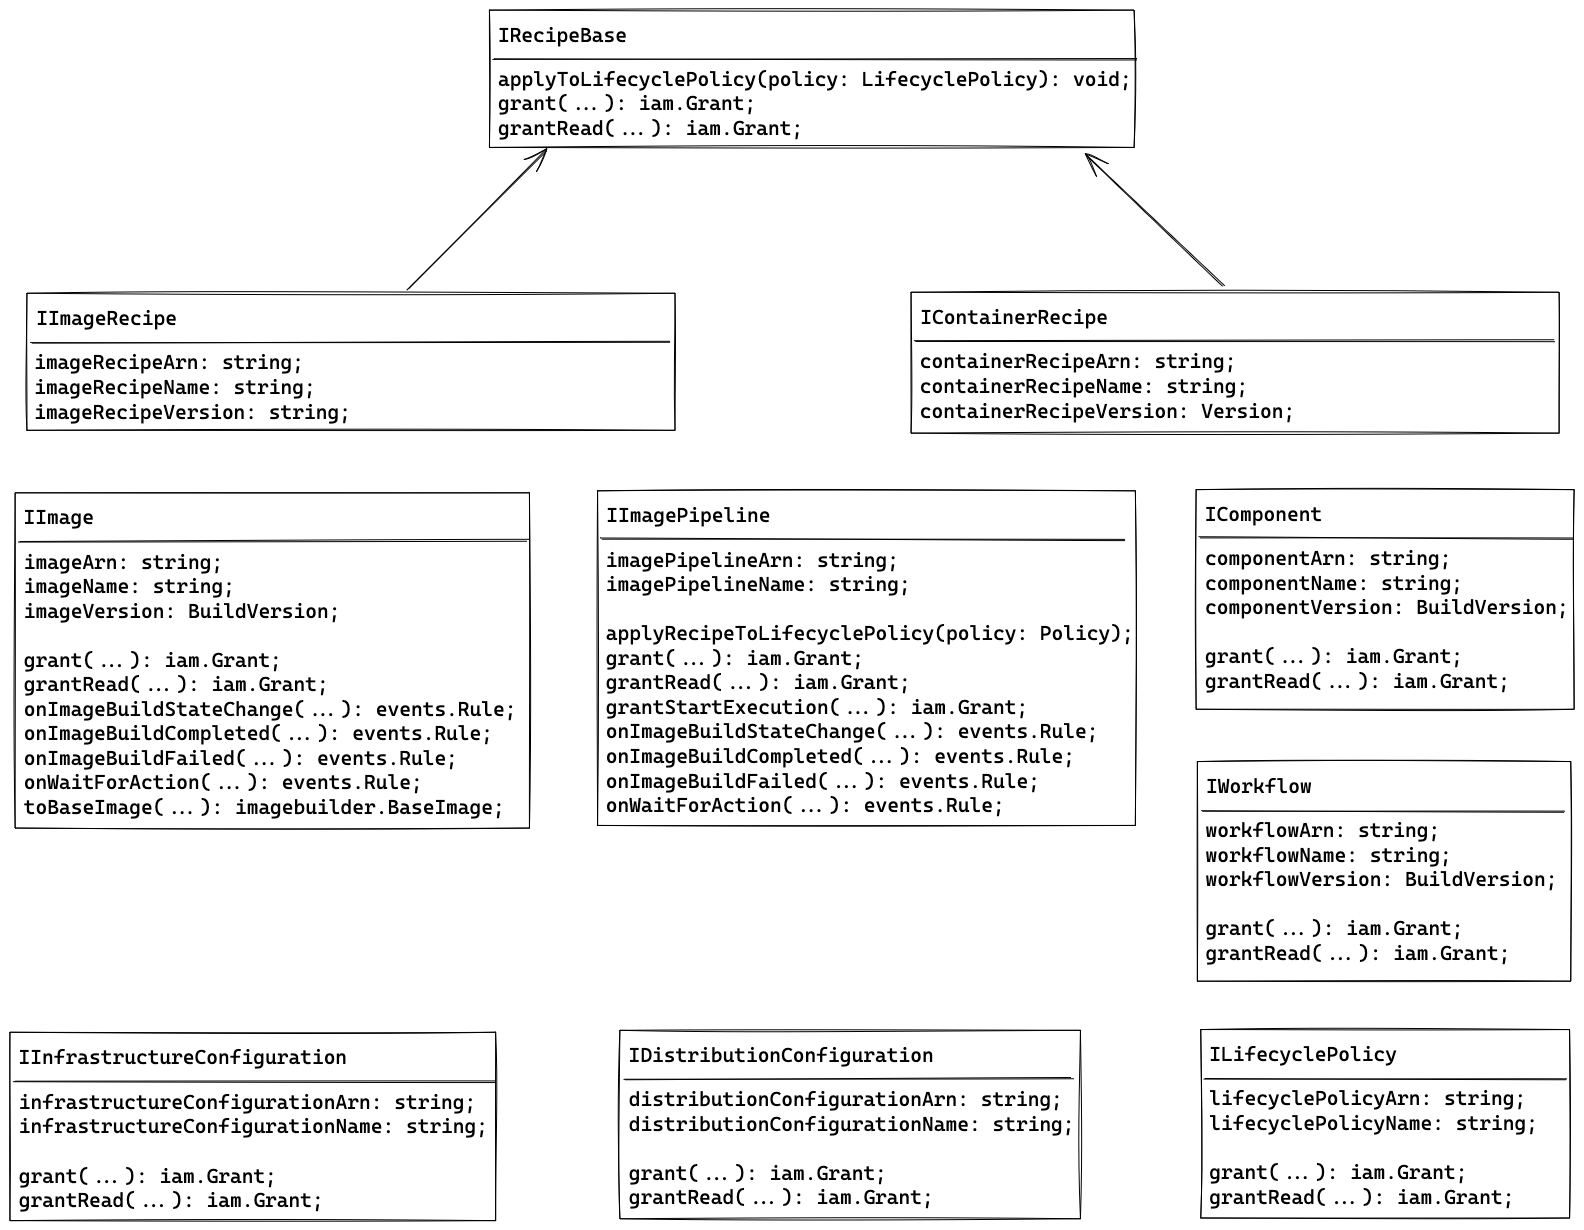
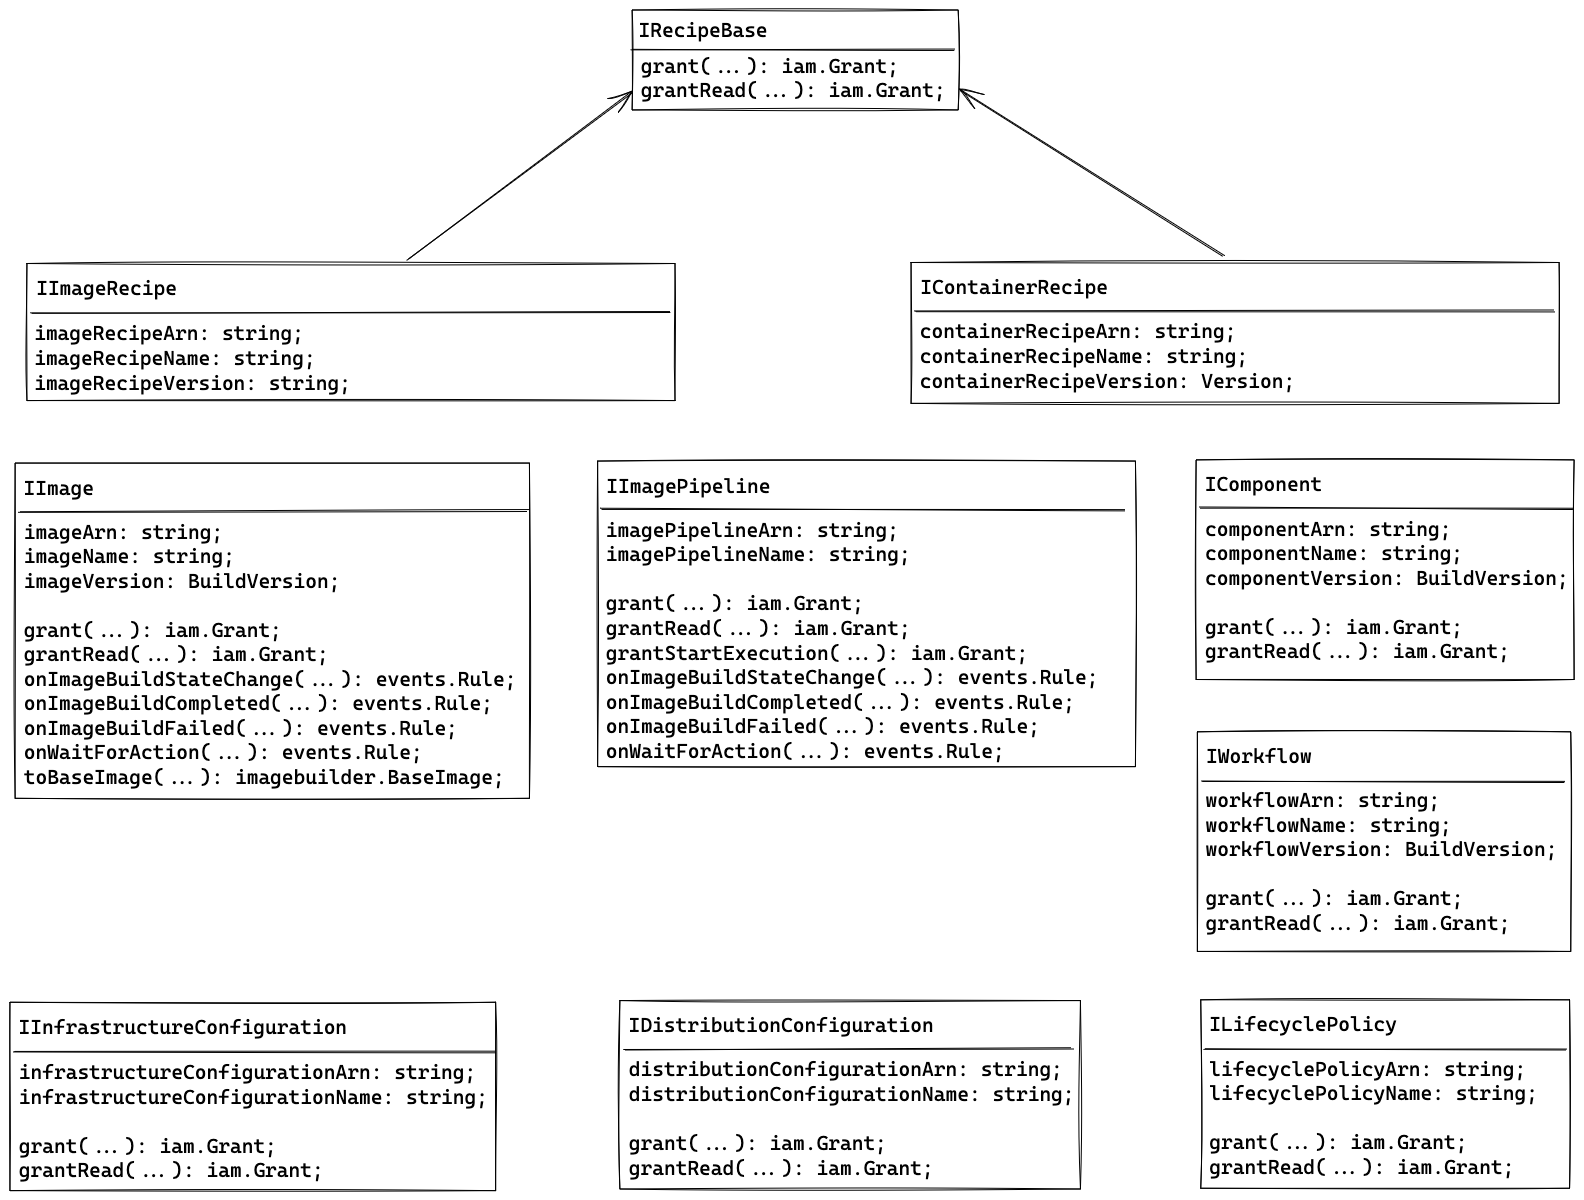
Addressed review comments on lifecycle policies

diff --git a/text/0789-imagebuilder-l2.md b/text/0789-imagebuilder-l2.md
@@ -136,7 +136,7 @@ const imagePipeline = new imagebuilder.ImagePipeline(stack, 'ImagePipeline', {
   }),
   recipe: imagebuilder.ImageRecipe.fromImageRecipeAttributes(stack, 'ImageRecipe', {
     name: 'test-image-recipe',
-    version: imagebuilder.Version.fromVersionAttributes({ major: '1', minor: '0', patch: '0' }),
+    version: new imagebuilder.Version({ major: '1', minor: '0', patch: '0' }),
   }),
   infrastructureConfiguration: imagebuilder.InfrastructureConfiguration.fromInfrastructureConfigurationName(
     stack,
@@ -160,7 +160,7 @@ const imagePipeline = new imagebuilder.ImagePipeline(stack, 'ImagePipeline', {
       }),
     },
     {
-      workflow: imagebuilder.AwsManagedWorkflow.fromWorkflowName(
+      workflow: imagebuilder.AwsManagedWorkflow.fromAwsManagedWorkflowName(
         stack,
         'TestWorkflowAcrossInstanceTypes',
         'test-image-with-instance-type',
@@ -209,7 +209,7 @@ const image = new imagebuilder.Image(stack, 'Image', {
   executionRole: iam.Role.fromRoleName(stack, 'ImageBuilderRole', 'ImageBuilderExecutionRole'),
   recipe: imagebuilder.ImageRecipe.fromImageRecipeAttributes(stack, 'ImageRecipe', {
     name: 'test-image-recipe',
-    version: imagebuilder.Version.fromVersionAttributes({ major: '1', minor: '0', patch: '0' }),
+    version: new imagebuilder.Version({ major: '1', minor: '0', patch: '0' }),
   }),
   infrastructureConfiguration: imagebuilder.InfrastructureConfiguration.fromInfrastructureConfigurationName(
     stack,
@@ -233,7 +233,7 @@ const image = new imagebuilder.Image(stack, 'Image', {
       }),
     },
     {
-      workflow: imagebuilder.AwsManagedWorkflow.fromWorkflowName(
+      workflow: imagebuilder.AwsManagedWorkflow.fromAwsManagedWorkflowName(
         stack,
         'TestWorkflowAcrossInstanceTypes',
         'test-image-with-instance-type',
@@ -389,7 +389,13 @@ const containerRecipe = new imagebuilder.ContainerRecipe(stack, 'ContainerRecipe
   ),
   // Use an AWS-managed component, shared component, and a self-owned component with parameters
   components: [
-    { component: imagebuilder.AwsManagedComponent.fromComponentName(stack, 'update-linux-component', 'update-linux') },
+    {
+      component: imagebuilder.AwsManagedComponent.fromAwsManagedComponentName(
+        stack,
+        'update-linux-component',
+        'update-linux',
+      ),
+    },
     {
       component: imagebuilder.Component.fromComponentArn(
         stack,
@@ -709,7 +715,7 @@ import * as kms from 'aws-cdk-lib/aws-kms';
 const workflow = new imagebuilder.Workflow(stack, 'Workflow', {
   name: 'custom-build-workflow',
   type: imagebuilder.WorkflowType.BUILD,
-  version: imagebuilder.Version.fromVersionAttributes({ major: '1', minor: '0', patch: '0' }),
+  version: new imagebuilder.Version({ major: '1', minor: '0', patch: '0' }),
   description: 'A test workflow',
   changeDescription: 'Initial version',
   kmsKey: kms.Key.fromLookup(stack, 'WorkflowKey', { aliasName: 'alias/workflow-encryption-key' }),
@@ -767,26 +773,24 @@ const lifecyclePolicy = new imagebuilder.LifecyclePolicy(stack, 'LifecyclePolicy
     {
       action: {
         type: imagebuilder.LifecyclePolicyActionType.DELETE,
-        includeResources: {
-          amis: true,
-          snapshots: true,
-        },
+        includeAmis: true,
+        includeSnapshots: true,
       },
       filter: {
         type: imagebuilder.LifecyclePolicyFilterType.AGE,
-        value: 1,
-        unit: imagebuilder.LifecyclePolicyTimeUnit.WEEKS,
+        age: cdk.Duration.days(7),
+        retainAtLeast: 5,
       },
-      exclusionRules: {
-        amis: {
-          isPublic: true,
-          lastLaunched: cdk.Duration.days(14),
-          regions: ['ap-southeast-2'],
-          sharedAccounts: ['0987654321098'],
-          tags: {
-            AMIInUse: 'true',
-          },
+      amiExclusionRules: {
+        isPublic: true,
+        lastLaunched: cdk.Duration.days(14),
+        regions: ['ap-southeast-2'],
+        sharedAccounts: ['0987654321098'],
+        tags: {
+          AMIInUse: 'true',
         },
+      },
+      imageExclusionRules: {
         tags: {
           ImageInUse: 'true',
         },
@@ -794,14 +798,6 @@ const lifecyclePolicy = new imagebuilder.LifecyclePolicy(stack, 'LifecyclePolicy
     },
   ],
 });
-
-// Add recipe to the lifecycle policy
-lifecyclePolicy.addRecipeSelection(
-  imagebuilder.ImageRecipe.fromImageRecipeAttributes(stack, 'ImageRecipe', {
-    name: 'test-image-recipe',
-    version: imagebuilder.Version.fromVersionAttributes({ major: '1', minor: '0', patch: '0' }),
-  }),
-);
 ```
 
 ---
@@ -894,10 +890,8 @@ interface ImagePipelineProps {
    *
    * A default infrastructure configuration will be used if one is not provided.
    *
-   * The default configuration will create an instance profile and role with minimal permissions, attached to the EC2
-   * instance. This role will have the "AmazonSSMManagedInstanceCore" and "EC2InstanceProfileForImageBuilder" managed
-   * policies attached. For container images, the "EC2InstanceProfileForImageBuilderECRContainerBuilds" managed policy
-   * will also be attached. The role will be assumable by "ec2.amazonaws.com"
+   * The default configuration will create an instance profile and role with minimal permissions needed to build the
+   * image, attached to the EC2 instance.
    *
    * S3 logging will be enabled by default. A bucket will be created in the current region with the name formatted as:
    * `ec2imagebuilder-logs-${AWS::Region}-${AWS::AccountId}`, where the log file keys will be prefixed with the image
@@ -1005,10 +999,8 @@ interface ImageProps {
    *
    * A default infrastructure configuration will be used if one is not provided.
    *
-   * The default configuration will create an instance profile and role with minimal permissions, attached to the EC2
-   * instance. This role will have the "AmazonSSMManagedInstanceCore" and "EC2InstanceProfileForImageBuilder" managed
-   * policies attached. For container images, the "EC2InstanceProfileForImageBuilderECRContainerBuilds" managed policy
-   * will also be attached. The role will be assumable by "ec2.amazonaws.com"
+   * The default configuration will create an instance profile and role with minimal permissions needed to build the
+   * image, attached to the EC2 instance.
    *
    * S3 logging will be enabled by default. A bucket will be created in the current region with the name formatted as:
    * `ec2imagebuilder-logs-${AWS::Region}-${AWS::AccountId}`, where the log file keys will be prefixed with the image
@@ -1367,10 +1359,8 @@ interface InfrastructureConfigurationProps {
   /**
    * The instance profile to associate with the instance used to customize the AMI.
    *
-   * By default, an instance profile and role will be created with minimal permissions, attached to the EC2 instance.
-   * This role will have the "AmazonSSMManagedInstanceCore" and "EC2InstanceProfileForImageBuilder" managed policies
-   * attached. For container images, the "EC2InstanceProfileForImageBuilderECRContainerBuilds" managed policy will also
-   * be attached. The role will be assumable by "ec2.amazonaws.com"
+   * By default, an instance profile and role will be created with minimal permissions needed to build the image,
+   * attached to the EC2 instance.
    *
    * @default - an instance profile will be generated
    */
@@ -1391,7 +1381,8 @@ interface InfrastructureConfigurationProps {
   readonly securityGroups?: ec2.ISecurityGroup[];
 
   /**
-   * The key pair used to connect to the build and test EC2 instances.
+   * The key pair used to connect to the build and test EC2 instances. The key pair can be used to log into the build
+   * or test instances for troubleshooting any failures.
    */
   readonly keyPair?: ec2.IKeyPair;
 
@@ -1578,17 +1569,17 @@ interface LifecyclePolicyProps {
   readonly description?: string;
 
   /**
-   * Whether the lifecycle policy is enabled.
+   * The status of the lifecycle policy.
    *
-   * @default - true
+   * @default - ENABLED
    */
   readonly status?: LifecyclePolicyStatus;
 
   /**
-   * The execution role used to perform lifecycle actions.
+   * The execution role that grants Image Builder access to run lifecycle actions.
    *
-   * By default, an execution role will be generated with the minimal permissions needed to execute the lifecycle
-   * policy. This role will have the "service-role/EC2ImageBuilderLifecycleExecutionPolicy" managed policy attached.
+   * By default, an execution role will be created with the minimal permissions needed to execute the lifecycle policy
+   * actions.
    *
    * @default - An execution role will be generated
    */
@@ -1933,13 +1924,6 @@ interface ILifecyclePolicy extends cdk.IResource {
 
 interface IRecipeBase {
   /**
-   * Applies the recipe to the given lifecycle policy as a selected resource
-   *
-   * @param policy - The lifecycle policy to apply the recipe to
-   */
-  applyToLifecyclePolicy(policy: LifecyclePolicy): void;
-
-  /**
    * Grant custom actions to the given grantee for the recipe
    *
    * @param grantee - The principal
@@ -2126,14 +2110,12 @@ class Image extends ImageBase {
    */
   readonly infrastructureConfiguration?: IInfrastructureConfiguration;
 
-  constructor(scope: Construct, id: string, props: ImageProps);
-
   /**
-   * Applies the recipe for the image pipeline to the given lifecycle policy as a selected resource
-   *
-   * @param policy - The lifecycle policy to apply the image pipeline's recipe to
+   * The recipe used for the image build
    */
-  applyRecipeToLifecyclePolicy(policy: LifecyclePolicy): void;
+  readonly recipe?: IRecipeBase;
+
+  constructor(scope: Construct, id: string, props: ImageProps);
 }
 
 class ImagePipeline extends ImagePipelineBase {
@@ -2171,14 +2153,12 @@ class ImagePipeline extends ImagePipelineBase {
    */
   readonly infrastructureConfiguration?: IInfrastructureConfiguration;
 
-  constructor(scope: Construct, id: string, props: ImagePipelineProps);
-
   /**
-   * Applies the recipe for the image pipeline to the given lifecycle policy as a selected resource
-   *
-   * @param policy - The lifecycle policy to apply the image pipeline's recipe to
+   * The recipe used for the image build
    */
-  applyRecipeToLifecyclePolicy(policy: LifecyclePolicy): void;
+  readonly recipe?: IRecipeBase;
+
+  constructor(scope: Construct, id: string, props: ImagePipelineProps);
 }
 
 class ImageRecipe extends ImageRecipeBase {
@@ -2251,11 +2231,9 @@ class LifecyclePolicy extends LifecyclePolicyBase {
   /**
    * The execution role used for lifecycle policy executions
    */
-  readonly executionRole?: string;
+  readonly executionRole?: iam.IRole;
 
   constructor(scope: Construct, id: string, props: LifecyclePolicyProps);
-
-  addRecipeSelection(recipe: IRecipeBase): void;
 }
 
 class Workflow extends WorkflowBase {
